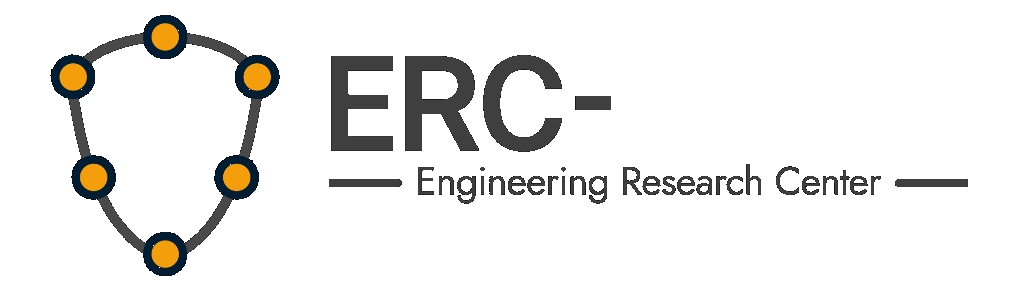
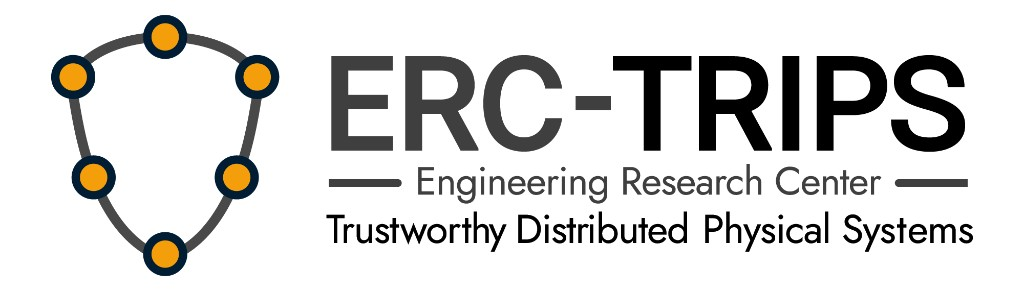
Update sponsors tiers and organizer photos

diff --git a/src/pages/index.tsx b/src/pages/index.tsx
@@ -85,7 +85,7 @@ const organizers: Person[] = [
   {
     name: "Ignacio G. López-Francos",
     affiliation: "SETI Institute / UT Austin",
-    photo: "/images/organizers/ignacioGLopezFrancos.png",
+    photo: "/images/iros2026/people/ignacioGLopezFrancos.png",
     url: "https://www.linkedin.com/in/ilopezfrancos/",
   },
   {
@@ -109,25 +109,25 @@ const organizers: Person[] = [
   {
     name: "Marcel Kaufmann",
     affiliation: "NASA JPL",
-    photo: "/images/organizers/marcelKaufmann.jpeg",
+    photo: "/images/iros2026/people/marcelKaufmann.jpeg",
     url: "https://www.linkedin.com/in/kaufmann-space",
   },
   {
     name: "Brian Coltin",
     affiliation: "NASA ARC / KBR",
-    photo: "/images/organizers/brianColtin.jpg",
+    photo: "/images/iros2026/people/brianColtin.jpg",
     url: "https://brian.coltin.org/",
   },
   {
     name: "Roshan Kalghatgi",
     affiliation: "NASA ARC / KBR",
-    photo: "/images/organizers/roshanKalghatgi.png",
+    photo: "/images/iros2026/people/roshanKalghatgi.png",
     url: "https://www.linkedin.com/in/roshankalghatgi/",
   },
   {
     name: "Hiro Ono",
     affiliation: "NASA JPL / Georgia Tech",
-    photo: "/images/scientific-committee/hiroOno.jpg",
+    photo: "/images/iros2026/people/hiroOno.jpg",
   },
   {
     name: "Harsh G. Bhundiya",
@@ -144,7 +144,7 @@ const organizers: Person[] = [
   {
     name: "Pyojin Kim",
     affiliation: "GIST",
-    photo: "/images/scientific-committee/pyojinKim.jpeg",
+    photo: "/images/iros2026/people/pyojinKim.jpeg",
     url: "https://mpil-gist.github.io/",
   },
 ];
@@ -155,8 +155,13 @@ type Sponsor = {
   url: string;
 };
 
-const sponsorRows: Sponsor[][] = [
-  [
+type SponsorTier = {
+  platinum: Sponsor[];
+  gold: Sponsor[];
+};
+
+const sponsors: SponsorTier = {
+  platinum: [
     {
       name: "SETI Institute",
       logo: "/images/sponsors/seti-institute.svg",
@@ -168,18 +173,26 @@ const sponsorRows: Sponsor[][] = [
       url: "https://www.starpath.space",
     },
   ],
-  [
-    {
-      name: "IEEE RAS Technical Committee for Space Robotics",
-      logo: "/images/iros2026/sponsors/ieee-ras-space-robotics.png",
-      url: "https://www.ieee-ras.org/space-robotics/",
-    },
+  gold: [
     {
       name: "ERC-TRIPS Engineering Research Center",
       logo: "/images/iros2026/sponsors/erc-trips.png",
       url: "https://erc-trips.re.kr/",
     },
   ],
+};
+
+const supportingOrganizations: Sponsor[] = [
+  {
+    name: "IEEE RAS Technical Committee for Space Robotics",
+    logo: "/images/iros2026/sponsors/ras-tc-sr.png",
+    url: "https://www.ieee-ras.org/space-robotics/",
+  },
+  {
+    name: "NASA",
+    logo: "/images/iros2026/sponsors/nasa.png",
+    url: "https://www.nasa.gov/",
+  },
 ];
 
 type AgendaSpeaker = {
@@ -205,7 +218,7 @@ const agenda: AgendaItem[] = [
       {
         name: "Ignacio G. López-Francos",
         affiliation: "SETI Institute / UT Austin",
-        photo: "/images/organizers/ignacioGLopezFrancos.png",
+        photo: "/images/iros2026/people/ignacioGLopezFrancos.png",
       },
     ],
   },
@@ -1030,6 +1043,10 @@ const Iros2026Page = () => (
               presented at the workshop.
             </li>
             <li>
+              Posters should be A0 size (841 × 1189 mm / 33.1 × 46.8 in). Either
+              portrait or landscape orientation is acceptable.
+            </li>
+            <li>
               Camera-ready versions of accepted submissions will be published on the
               workshop website. At least one author must register for the workshop and
               present the poster in person.
@@ -1096,27 +1113,66 @@ const Iros2026Page = () => (
         </SubSection>
       </Section>
 
-      <Section title="Sponsors">
+      <Section title="Sponsors & Supporters">
         <p>
           We are grateful to the organizations whose support helps make the Space
           Robotics Workshop possible.
         </p>
-        <div className={style.sponsorRows}>
-          {sponsorRows.map((row, rowIndex) => (
-            <div className={style.sponsorGrid} key={rowIndex}>
-              {row.map(sponsor => (
-                <a
-                  key={sponsor.name}
-                  href={sponsor.url}
-                  target="_blank"
-                  rel="noopener noreferrer"
-                  className={style.sponsorLink}
-                >
-                  <img src={sponsor.logo} alt={sponsor.name} className={style.sponsorLogo} />
-                </a>
-              ))}
-            </div>
-          ))}
+        <div className={style.sponsorTier}>
+          <div className={style.sponsorTierLabel}>Platinum</div>
+          <div className={style.sponsorGrid}>
+            {sponsors.platinum.map(sponsor => (
+              <a
+                key={sponsor.name}
+                href={sponsor.url}
+                target="_blank"
+                rel="noopener noreferrer"
+                className={style.sponsorLink}
+              >
+                <img src={sponsor.logo} alt={sponsor.name} className={style.sponsorLogo} />
+              </a>
+            ))}
+          </div>
+        </div>
+        <div className={style.sponsorTier}>
+          <div className={style.sponsorTierLabel}>Gold</div>
+          <div className={style.sponsorGrid}>
+            {sponsors.gold.map(sponsor => (
+              <a
+                key={sponsor.name}
+                href={sponsor.url}
+                target="_blank"
+                rel="noopener noreferrer"
+                className={style.sponsorLink}
+              >
+                <img
+                  src={sponsor.logo}
+                  alt={sponsor.name}
+                  className={`${style.sponsorLogo} ${style.sponsorLogoGold}`}
+                />
+              </a>
+            ))}
+          </div>
+        </div>
+        <div className={style.sponsorTier}>
+          <div className={style.sponsorTierLabel}>Supporting Organizations</div>
+          <div className={style.sponsorGrid}>
+            {supportingOrganizations.map(org => (
+              <a
+                key={org.name}
+                href={org.url}
+                target="_blank"
+                rel="noopener noreferrer"
+                className={style.sponsorLink}
+              >
+                <img
+                  src={org.logo}
+                  alt={org.name}
+                  className={`${style.sponsorLogo} ${style.sponsorLogoSupport}`}
+                />
+              </a>
+            ))}
+          </div>
         </div>
       </Section>
 

diff --git a/src/pages/index.module.scss b/src/pages/index.module.scss
@@ -441,11 +441,18 @@
 
 // ------------------------------------------------------------------
 // Sponsors
-.sponsorRows {
-  display: flex;
-  flex-direction: column;
-  gap: 36px;
-  margin-top: 18px;
+.sponsorTier {
+  margin-top: 28px;
+}
+
+.sponsorTierLabel {
+  margin-bottom: 14px;
+  font-size: 0.85rem;
+  font-weight: 700;
+  letter-spacing: 0.08em;
+  text-transform: uppercase;
+  color: #5a6577;
+  text-align: center;
 }
 
 .sponsorGrid {
@@ -478,11 +485,20 @@
   }
 }
 
-.sponsorRows .sponsorGrid:nth-child(2) .sponsorLogo {
-  height: 64px;
+.sponsorLogoGold {
+  height: 72px;
 
   @include breakpoint(mobile) {
-    height: 48px;
+    height: 56px;
+  }
+}
+
+.sponsorLogoSupport {
+  height: 96px;
+  max-width: min(100%, 360px);
+
+  @include breakpoint(mobile) {
+    height: 72px;
   }
 }
 
